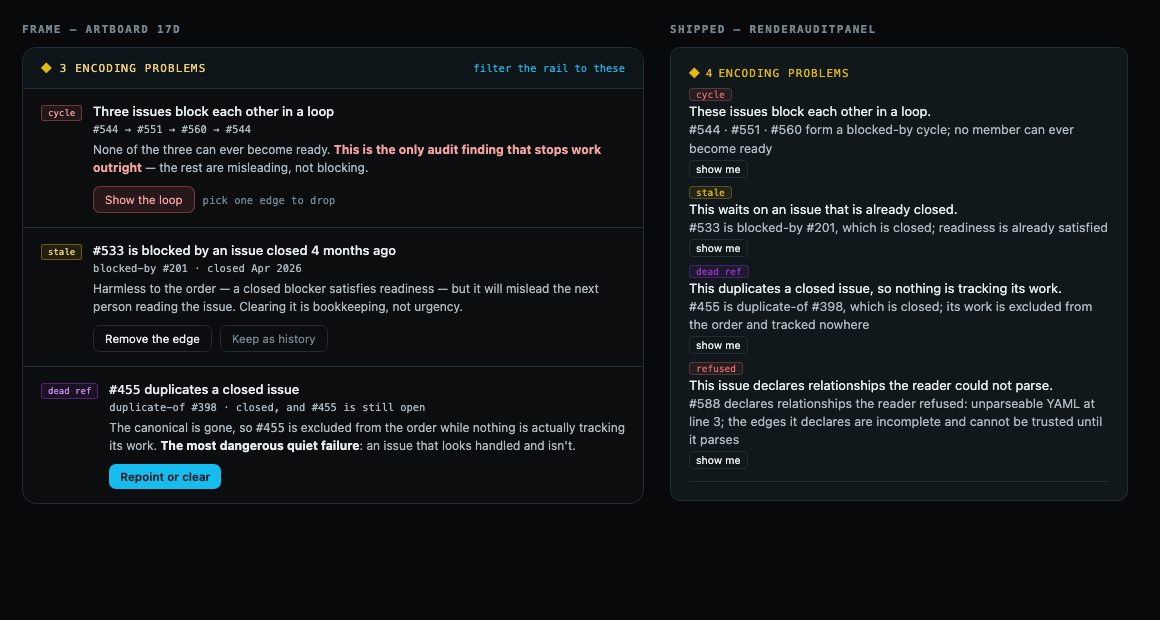
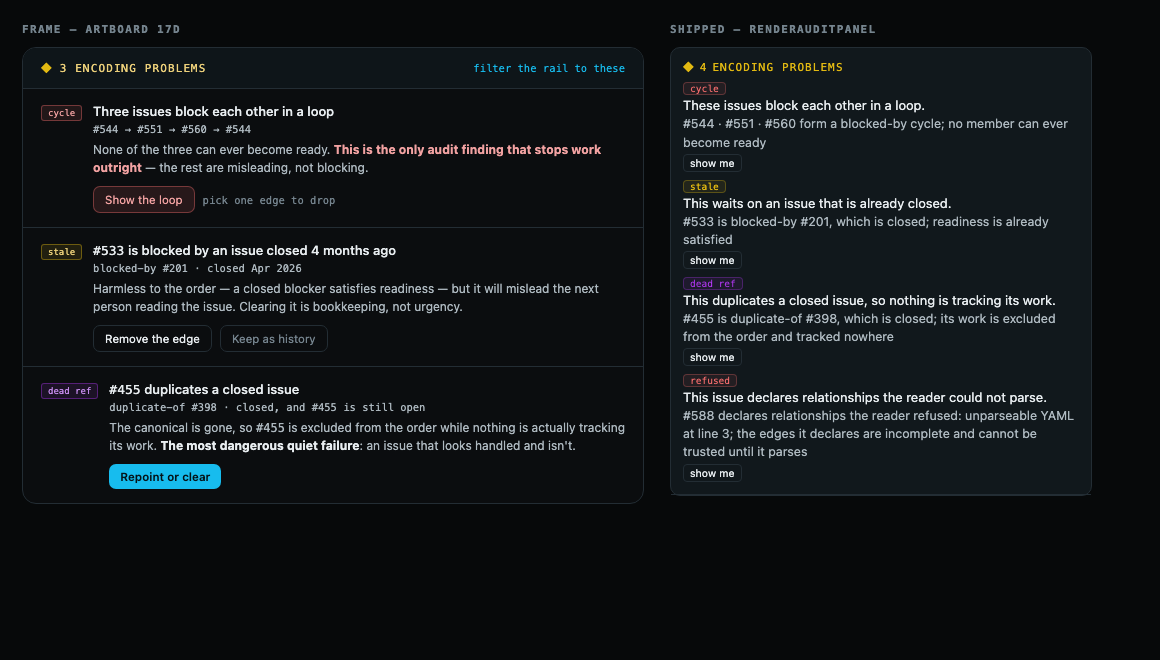
fix(editor): one finding per finding, and two panes instead of one column
Two review findings, and both were mechanisms rather than instances, so
both mechanisms are gone.

A repeated edge was two findings. A store document carrying the same
`blocked-by` twice is supported redundancy rather than malformed data —
`@issuegraph/viewer`'s `indexEdges` collapses an exact repeated directed
edge without a diagnostic, and the audit reads that document
unnormalized — so the per-edge detectors emitted one finding per
occurrence, with the same kind, members and sentence. That is one finding
found twice, and my own argument for naming a button by its sentence
rests on it: two findings with one sentence are one finding. It is now
enforced in `auditDocument` rather than assumed.

It is deduplicated there rather than in a renderer because the HEADER
COUNT reads the same list: a repeated edge said "3 encoding problems"
over a list of two, and the count and the list exist to be one reading.
A fourth patch to the accessible name would have fixed the buttons and
left the count wrong.

The scroll budget could not keep its promise. The list was a child of
`.ig-inspector`, sharing that column's single scroll track, so a long
audit pushed the selection detail below the fold however the list was
capped — a cap bounds the list, never the column, and the fixed one was
most of a short workspace's whole height. The panel is a sibling of the
inspector inside the zone now, the zone is a flex column, and each pane
[…]

diff --git a/packages/editor/src/workspace/render.ts b/packages/editor/src/workspace/render.ts
@@ -1955,25 +1955,6 @@ function inspectorSpec(view: InspectorView, context: InspectorContext): ElementS
   // their own heading — and a step derived separately per zone is two answers
   // to one question, free to disagree the day either guard moves.
   const step = createStep(context, key);
-  // §17d'S LIST, AFTER THE HEAD AND BEFORE THE SELECTION. `words.inspector`
-  // exists so this column is never headed by whatever happened to render first
-  // — "a reader who had selected nothing met a bare sentence in an unnamed
-  // column" — so the panel goes UNDER `INSPECTOR`, not above it.
-  //
-  // IT IS GLOBAL CONTENT IN A SELECTION-SCOPED ZONE, and that tension is real
-  // rather than resolved: §17d wants the findings visible WHILE you work, and
-  // the workspace has three zones plus a header, so there is nowhere else they
-  // can be ambient. What keeps it honest is that the list carries its own
-  // scroll budget (`.ig-audit-list`), so a long audit cannot evict the
-  // selection detail from the screen — only from the list's own overflow.
-  const auditPanel =
-    context.audit === null
-      ? null
-      : // `known` IS THE DRAWN DOCUMENT'S KEYS, the same set `holdRow` withholds
-        // its subject control on, and NOT the audit's. A host audits what it
-        // holds and draws a page of it, so a ref can be audited and still have
-        // no row here; the panel cannot see that difference and is told.
-        renderAuditPanel(context.audit, { words: words.audit, known: context.known });
   return element('div', { class: 'ig-inspector', 'data-subject': subject.kind }, [
     element('div', { class: 'ig-inspector-head' }, [
       element('h2', { class: 'ig-inspector-name' }, [words.inspector]),
@@ -1985,7 +1966,6 @@ function inspectorSpec(view: InspectorView, context: InspectorContext): ElementS
             [words.clearSelection],
           ),
     ]),
-    auditPanel,
     subject.kind === 'none'
       ? element('p', { class: 'ig-inspector-empty' }, [words.nothingSelected])
       : null,
@@ -2456,6 +2436,28 @@ export function renderWorkspace(
     zone('canvas', canvas.markup),
     zone(
       'inspector',
+      // §17d'S LIST AND THE SELECTION ARE TWO PANES, NOT ONE COLUMN, and that
+      // is what makes the panel's scroll budget mean anything. As a CHILD of
+      // `.ig-inspector` it shared that column's single scroll track, so a long
+      // audit pushed the detail the reader had just clicked below the fold
+      // however the list was capped — the cap can only bound the list, never
+      // the zone. As siblings each takes its own share of the zone's height and
+      // scrolls inside it, so neither can evict the other.
+      //
+      // BOTH SIDES ARE ALREADY-RENDERED MARKUP, which is the rule `zone` exists
+      // under: it writes the only hand-authored tag in this package and takes
+      // no caller value, and everything with a dynamic value in it went through
+      // `renderMarkup`.
+      //
+      // `known` IS THE DRAWN DOCUMENT'S KEYS, the same set `holdRow` withholds
+      // its subject control on, and NOT the audit's: a host audits what it
+      // holds and draws a page of it, so a ref can be audited and still have no
+      // row here. The panel cannot see that difference and is told.
+      (() => {
+        if (overlay === null) return '';
+        const panel = renderAuditPanel(overlay, { words: options.words.audit, known });
+        return panel === null ? '' : renderMarkup(panel);
+      })() +
       renderMarkup(
         inspectorSpec(inspector, {
           words: options.words,

diff --git a/packages/editor/src/audit/styles.ts b/packages/editor/src/audit/styles.ts
@@ -77,13 +77,22 @@ export const auditStylesheet = `
    row the VIEWER rendered. A chip wearing that attribute would draw the rail's
    gold bar whatever hue the class table gave it, which is the four-hue mapping
    below defeated by one attribute. Chips carry ${AUDIT_KIND_ATTRIBUTE}. */
+/* IT IS ITS OWN PANE. The panel is a sibling of the inspector inside the zone
+   rather than a child of it, so it carries its own padding — that column's no
+   longer reaches it — and it takes its own share of the zone's height:
+   flex: 0 1 auto against a sibling that claims the rest, so a long audit and a
+   long selection cannot push each other off screen. workspace/styles.ts makes
+   the zone the flex column this sits in; the share is declared here because
+   this sheet owns this class. */
 .ig-audit-panel {
+  flex: 0 1 auto;
   border-bottom: var(--ig-stroke) solid var(--ig-line);
   display: flex;
   flex-direction: column;
   font-family: var(--ig-font-ui);
   gap: var(--ig-space-snug);
-  padding-bottom: var(--ig-space);
+  min-height: 0;
+  padding: var(--ig-space);
 }
 
 .ig-audit-panel-head {
@@ -117,18 +126,23 @@ export const auditStylesheet = `
   text-transform: uppercase;
 }
 
-/* THE LIST SCROLLS INSIDE THE PANEL, and this is load-bearing rather than
-   tidy. The inspector zone is ONE overflow track, so an unbounded list of
-   findings pushes the selection detail the reader just clicked below the fold —
-   a global list quietly evicting the selection-scoped column it borrowed. The
-   panel keeps its own budget and the detail keeps its place on screen. */
+/* THE LIST SCROLLS INSIDE THE PANEL, and the pane above it is what makes that
+   a guarantee rather than a hope. A FIXED cap could not be one: a calc of 24
+   times the wide space step is, under the default theme, most of a short
+   workspace's whole column — the list obeyed its budget and the selection
+   detail went below the fold anyway. The bound that matters is the share of the
+   ZONE this pane may take, and flex: 0 1 auto against a sibling that claims
+   the rest is what states it; the list then simply fills its pane.
+
+   min-height: 0 again, for the reason the zone's children carry it: without
+   it this scroll container refuses to shrink below its content. */
 .ig-audit-list {
   display: flex;
   flex-direction: column;
   gap: var(--ig-space-snug);
   list-style: none;
   margin: 0;
-  max-height: calc(var(--ig-space-wide) * 24);
+  min-height: 0;
   overflow-y: auto;
   padding: 0;
 }
@@ -187,12 +201,12 @@ export const auditStylesheet = `
 }
 
 /* ONE RULE PER CLASS, WRITTEN OUT, never through an intermediate property: the
-   viewer's own badge sheet records why — a \`--ig-audit-hue\` set here and read
+   viewer's own badge sheet records why — a \--ig-audit-hue\ set here and read
    here names something no theme and no layout declares, and the token scan
    exists to refuse exactly that.
 
-   THE TINTS ARE THE VIEWER'S RECIPE, not new numbers. \`--ig-tint-fill\` and
-   \`--ig-tint-border\` are what \`.ig-badge[data-edge]\` already mixes an edge hue
+   THE TINTS ARE THE VIEWER'S RECIPE, not new numbers. \--ig-tint-fill\ and
+   \--ig-tint-border\ are what \.ig-badge[data-edge]\ already mixes an edge hue
    with, and they are the frame's own chip wash to within a point.
 
    THE TEXT IS THE BASE HUE. The frame lightens each chip's label a step off the

diff --git a/packages/editor/src/audit/findings.ts b/packages/editor/src/audit/findings.ts
@@ -669,10 +669,48 @@ export function auditDocument(input: AuditInput): readonly AuditFinding[] {
   const { document, graph } = input;
   const refusals = input.encodingRefused ?? [];
   const refused = new Set(refusals.map((refusal) => refusal.ref));
-  return Object.freeze([
-    ...cycleFindings(graph),
-    ...staleBlockerFindings(document, graph, refused),
-    ...deadDuplicateFindings(document, graph, refused),
-    ...encodingRefusedFindings(refusals),
-  ]);
+  return Object.freeze(
+    distinct([
+      ...cycleFindings(graph),
+      ...staleBlockerFindings(document, graph, refused),
+      ...deadDuplicateFindings(document, graph, refused),
+      ...encodingRefusedFindings(refusals),
+    ]),
+  );
+}
+
+/**
+ * One entry per distinct finding, keeping the first of any repeat.
+ *
+ * A FINDING IS WHAT IT SAYS. `detail` is composed from the very edge or members
+ * the finding is about, so two findings with one kind, one member set and one
+ * sentence are not two findings — they are one, found twice.
+ *
+ * THE INPUT THAT PRODUCES THEM IS SUPPORTED REDUNDANCY, NOT MALFORMED DATA.
+ * `@issuegraph/viewer`'s `indexEdges` collapses an exact repeated directed edge
+ * into one relationship without a diagnostic, so a store document carrying the
+ * same `blocked-by` twice is ordinary; the audit reads that document
+ * unnormalized and its per-edge detectors duly emit one finding per occurrence.
+ *
+ * IT IS DONE HERE RATHER THAN IN EACH DETECTOR, and rather than in a renderer.
+ * A detector deduplicating its own output would be four copies of one rule, and
+ * `encodingRefusedFindings` already carries a fifth for refusals. A renderer
+ * doing it would leave the HEADER COUNT wrong — a repeated edge would have said
+ * "3 encoding problems" over a list of two — which is the reading the count and
+ * the list exist to keep identical.
+ */
+function distinct(findings: readonly AuditFinding[]): AuditFinding[] {
+  const seen = new Set<string>();
+  const out: AuditFinding[] = [];
+  for (const found of findings) {
+    // THE MEMBERS ARE IN THE KEY AS WELL AS THE SENTENCE. `detail` determines
+    // them today for every detector, but the key should not rest on a property
+    // of the prose: a class that ever states two member sets in one sentence
+    // would silently drop a finding rather than fail a test.
+    const key = `${found.kind}\u0000${found.members.join('\u0001')}\u0000${found.detail}`;
+    if (seen.has(key)) continue;
+    seen.add(key);
+    out.push(found);
+  }
+  return out;
 }

diff --git a/packages/editor/src/audit/findings.test.ts b/packages/editor/src/audit/findings.test.ts
@@ -195,6 +195,43 @@ describe('the four finding classes', () => {
     assert.deepEqual(found[0]?.members, ['unloaded']);
   });
 
+  it('reports one finding when the same edge is declared twice', () => {
+    // SUPPORTED REDUNDANCY, NOT MALFORMED DATA. `@issuegraph/viewer`'s
+    // `indexEdges` collapses an exact repeated directed edge into one
+    // relationship without a diagnostic, and the audit reads the store document
+    // UNNORMALIZED — so a document carrying one `blocked-by` twice is ordinary
+    // and the per-edge detector duly saw it twice.
+    //
+    // A FINDING IS WHAT IT SAYS, so two with one kind, one member set and one
+    // sentence are one finding found twice. Left as two they inflated the
+    // header count over a list that had fewer rows, and gave two identical
+    // buttons to a reader whose only way to tell them apart is the name.
+    const issues = [issue('a'), issue('shut', 'closed')];
+    const edge = makeEdge('blocked-by', 'a', 'shut');
+    const document: GraphDocument = { issues, edges: [edge, edge] };
+    const found = only(
+      auditDocument({ document, graph: graphOf(document) }),
+      'stale-blocker',
+    );
+    assert.equal(found.length, 1);
+    assert.deepEqual(found[0]?.members, ['a', 'shut']);
+  });
+
+  it('keeps two findings that differ only in which edge they are about', () => {
+    // THE CONTROL BESIDE THE ONE ABOVE, and it is what stops the dedupe going
+    // too far: two closed blockers on one issue are two separate pieces of
+    // bookkeeping, sharing a kind and a target and differing only in the edge —
+    // exactly the shape the key must keep apart.
+    const issues = [issue('a'), issue('y', 'closed'), issue('z', 'closed')];
+    const document: GraphDocument = {
+      issues,
+      edges: [makeEdge('blocked-by', 'a', 'y'), makeEdge('blocked-by', 'a', 'z')],
+    };
+    const found = only(auditDocument({ document, graph: graphOf(document) }), 'stale-blocker');
+    assert.equal(found.length, 2);
+    assert.equal(new Set(found.map((one) => one.detail)).size, 2);
+  });
+
   it('reports one refusal per issue however many times the host states it', () => {
     const document = documentOf([issue('a')], []);
     const found = only(

diff --git a/packages/editor/src/workspace/styles.ts b/packages/editor/src/workspace/styles.ts
@@ -173,11 +173,37 @@ export const workspaceStylesheet = `
   overflow: auto;
 }
 
+/* TWO PANES, EACH SCROLLING ITSELF. §17d's findings panel and the selection
+   detail are siblings here, so the zone is a flex COLUMN rather than one scroll
+   track: the audit takes what it needs up to its own cap and the detail keeps
+   the rest, and neither can push the other off screen. As one track — which is
+   what this was — a long audit sent the detail below the fold however the list
+   was capped, because a cap on the list bounds the list and not the column.
+
+   min-height: 0 ON THE CHILDREN, not here: a flex item's default min-height
+   is auto, so a scroll container inside one refuses to shrink below its
+   content and overflows the column instead of scrolling. It is the declaration
+   this layout does not work without.
+
+   THE PANEL'S OWN SHARE IS DECLARED IN ITS OWN SHEET, not here. audit/styles.ts
+   owns .ig-audit-panel, and this sheet styles only what this surface renders —
+   there is a test for that in both directions. What belongs here is the zone
+   and the inspector, which are this surface's. */
 .ig-zone[data-zone='inspector'] {
   grid-area: inspector;
-  overflow-y: auto;
+  display: flex;
+  flex-direction: column;
+  min-height: 0;
+  overflow: hidden;
   border-left: var(--ig-stroke) solid var(--ig-line);
 }
+
+.ig-zone[data-zone='inspector'] > .ig-inspector {
+  flex: 1 1 auto;
+  min-height: 0;
+  overflow-y: auto;
+}
+
 
 /* THE AMBIENT LEFT-BAR. A 2px gold rule on the affected row and nothing else —
    no fill, no icon, no badge. §17a's whole ask is that encoding errors stay

diff --git a/CHANGELOG.md b/CHANGELOG.md
@@ -19,7 +19,8 @@ Releases are recorded here. While the spec is a pre-1.0 draft, drafting churn li
   - **The control is drawn only for a member the reader can actually reach, and reachability is the CALLER's answer.** An encoding refusal is a fact the HOST asserted about an issue it read, and `findings.ts` keeps one whose ref lies outside the loaded document on purpose — filtering findings to the loaded set would drop them on exactly the issues a paging boundary has not reached. So a finding's members are not all rows, and a button targeting one that is not advertises a move it cannot make: the mount reconciles the unknown selection straight back away. `renderAuditPanel` therefore requires the drawn surface's `known` keys — the same set `holdRow` withholds its subject control on, computed once by `renderWorkspace` off the normalized document it draws — and never asks the overlay. `overlay.rowFor` answers "does the AUDIT's document carry this ref", which is a different question: a host audits what it HOLDS and renders a page of it (the demo audits `held` while drawing `landed`, which can be empty), so a ref can be audited, have an overlay row, and still reach a view with nothing in it.
   - **Each of those buttons announces which finding it belongs to.** Several findings mean several identical `show me` controls, and the one navigation mode that strips the surrounding card — a screen reader's BUTTON LIST — leaves them indistinguishable, with the ref living only in `data-ig-target`, which is not exposed to assistive technology at all. The visible label stays the host's short word; the accessible name appends **the finding's own sentence**, and that is a class removed rather than a third attempt at it. Three revisions tried to summarise a finding into its name and each summary collided on a shape the last had not met — the word alone collided everywhere, adding the ref collided when one issue carried two findings, adding the class collided when two findings shared a class AND a target (`a blocked-by y` and `a blocked-by z`, two closed blockers on one issue). Any hand-picked subset of a finding's attributes has two findings that agree on it, so counting the collisions was never going to end. `detail` cannot collide by construction — `findings.ts` composes it from the specific edge or members, and documents it as "what the reader can be told, in one sentence" — so two findings with one sentence are one finding. It adds no English: `detail` is already the card's visible prose. One test now carries all three collision shapes in one fixture, asserts each as an explicit premise, and is verified to FAIL against all three earlier revisions. **Appended, not interpolated**, the `whyRank` idiom, so no template language and no package English: a ref is a package value. This differs from `WorkspaceWords.remove` deliberately — that control is also repeated and also row-independent, and its note rejects a name like `remove #488` on the ground that a HOST writing that string would be wrong on every other row, which is a different question from appending the ref in the renderer. The same treatment is owed there and is filed rather than widened into this change.
   - **The panel is a named section with a real heading.** A `section` with no accessible name carries no landmark role at all — the implicit `region` is conditional on the name — so an unnamed one is exposed as nothing and a landmark reader cannot reach the panel; `firstpass/render.ts` already names its own from its words. And the heading was a `span` in a zone whose name is an `h2` and whose relationship list is an `h3`, so the panel was invisible to heading navigation and left a gap in the column's outline. It is an `h3` at the inspector's own level, caps from the stylesheet as every other heading in that zone.
-  - **The list carries its own scroll budget, and that is load-bearing.** The inspector zone is one `overflow-y` track, so an unbounded list of findings pushes the selection detail the reader just clicked below the fold — a global list quietly evicting the selection-scoped column it borrowed.
+  - **The panel and the selection are two panes, not one column.** As a CHILD of `.ig-inspector` the list shared that column's single scroll track, so a long audit pushed the detail the reader had just clicked below the fold **however the list was capped** — a cap bounds the list, never the column, and a fixed one is most of a short workspace's whole height under the default theme. They are siblings inside the zone now, the zone is a flex column, and each takes its own share and scrolls inside it. No magic number: `flex: 0 1 auto` against a sibling that claims the rest is the whole bound.
+  - **A repeated edge is one finding, not two.** `auditDocument` deduplicates on kind, members and sentence. A store document carrying the same `blocked-by` twice is supported redundancy rather than malformed data — `@issuegraph/viewer`'s `indexEdges` collapses an exact repeat without a diagnostic, and the audit reads that document unnormalized — so the per-edge detectors duly emitted one finding per occurrence. Left as two they inflated the **header count** over a list with fewer rows, which is the one thing the count and the list exist to keep identical, and gave a reader two indistinguishable buttons. Deduplicating in the renderer would have fixed the buttons and left the count wrong.
   - **The a11y risk ran the opposite way to the obvious one.** Every existing baseline fixture reports no cycles and no duplicate canonical, so the overlay counts ZERO and the panel never rendered in any of the ten surfaces — meaning the new control would have been covered by no rule at all, which is the blind spot `baseline.ts` describes rather than a broken pin. An eleventh surface reports a cycle, and `baseline.json` is regenerated additively: 149 insertions, nothing changed and nothing dropped.
 
 - **`@issuegraph/editor` `0.13.0`: §17a's three inspector placements — `+ add` on the header row with its key, a heading over the numbered kinds, and the digit as a chip at each row's end.** Closes [#147](https://github.com/autnmy/issuegraph/issues/147), advancing [#122](https://github.com/autnmy/issuegraph/issues/122) by one frame/implementation pair. **Breaking.** `WorkspaceWords` gains one required entry, `addRelationshipHeading`, and `create/keys.ts` publishes `RELATE_KEY`.
